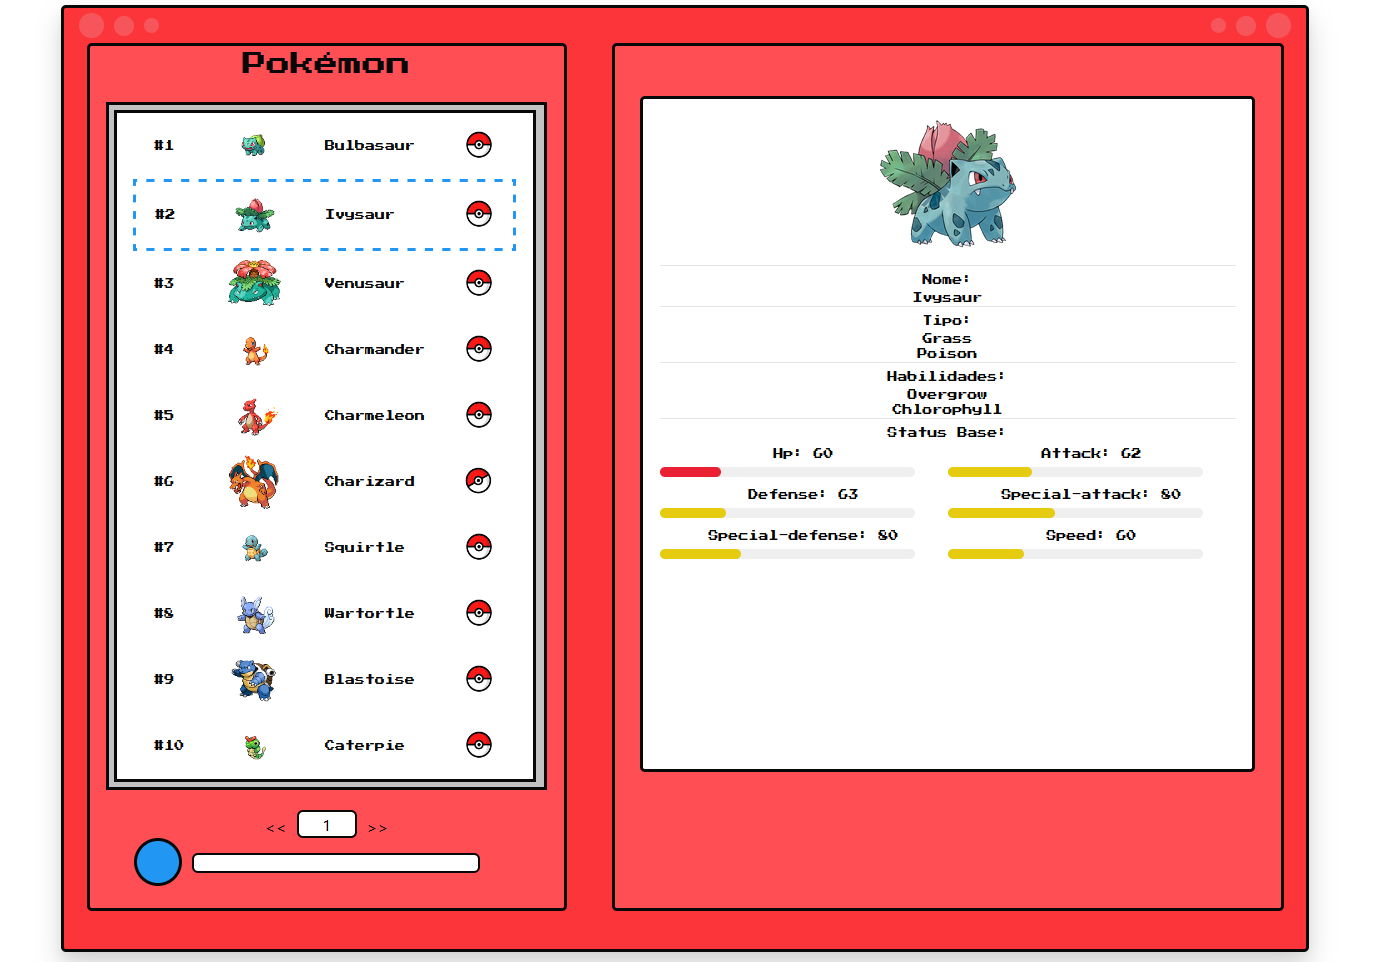
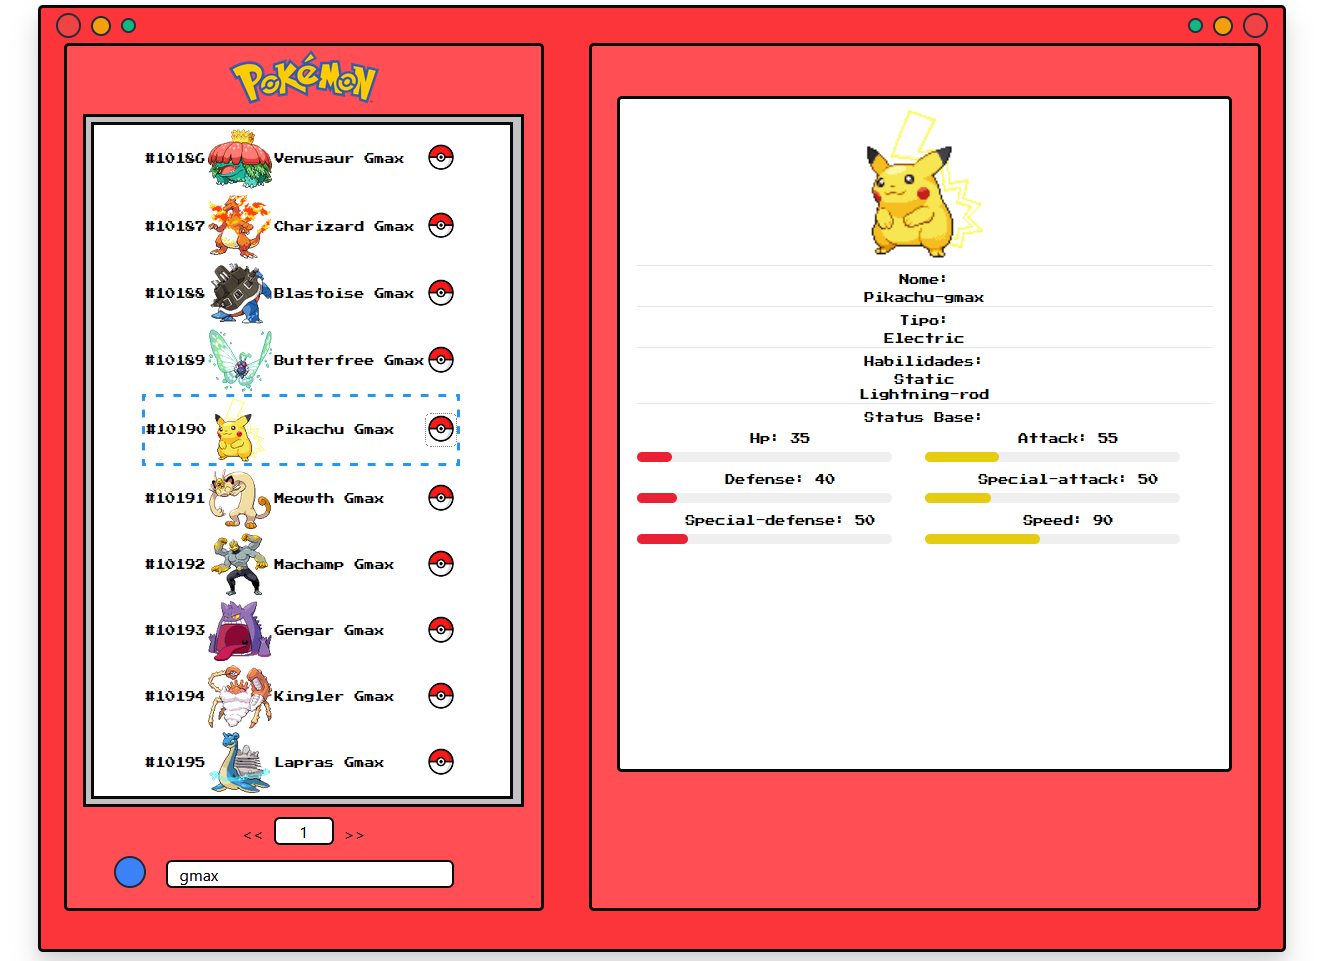
busca funcionando :,)

Changed region(s): [[0.0311, 0.0, 0.8697, 0.999], [0.8697, 0.0, 0.9939, 1.0]]

diff --git a/src/pokemon/List.js b/src/pokemon/List.js
@@ -6,67 +6,38 @@ import '../index.css';
 import PokeSerch from './PokeSearch';
 import DecorativeHeader from "./DecorativeHeader";
 import PokeTable from "./PokeTable";
-import SmoothRectangle from "./SmoothRectangle";
-
+import SmoothRectangle from "./SmoothRectangle"
+import useList from "../hooks/useList";
 
 function List() {
-  const [pokemons, setPokemons] = useState([]);
-  const [imagePokemons, setImagePokemons] = useState([]);
+  const [page, setPage] = useState(1);
   const [detalhes, setDetalhes] = React.useState('');
-  const [detalhesUrl, setDetalhesUrl] = React.useState('');
-  const [total, setTotal] = useState(0);
+  var { pokemons, total, fetchFiltered } = useList();
 
-  const fetchPokemons = async (offset = 1, limit = 10) => {
-    var url = '';
-    url = `https://pokeapi.co/api/v2/pokemon?offset=${(offset - 1) * limit
-      }&limit=${limit}`;
-    const response = await fetch(url);
-    const { results, count } = await response.json();
-    setPokemons(results);
-    setTotal(count);
+
+  const handleChangePagination = (page) => {
+    console.log(`pagina muda`, page);
+    setPage(page)
   };
-
-  const fetchImagePokemons = async (pokemons) => {
-    var promisses = pokemons.map(async element => {
-      var url = element.url.toString();
-      var response = await fetch(url);
-      var { sprites } = await response.json();
-      return sprites.front_default;
-    });
-    var imagens = await Promise.all(promisses);
-    setImagePokemons(imagens);
-  };
-
-  const fetchDetalhes = async (detalhesUrl) => {
-    const response = await fetch(detalhesUrl);
-    const result = await response.json();
-    setDetalhes(result);
-  }
-
-  useEffect(() => {
-    fetchImagePokemons(pokemons);
-  }, [pokemons]);
-
-  const handlePaginationChange = (page) => {
-    fetchPokemons(page);
-  };
-
+  
   const handleSearchChange = (nameSearch) => {
     const name = nameSearch.replace(' ', '-');
     const url = `https://pokeapi.co/api/v2/pokemon/${name}`
     fetchDetalhes(url);
   };
-
+  
   const HandleDetalhesChange = (detalhes) => {
     fetchDetalhes(detalhes);
   };
-
-  function handleDetalhesClick(url) {
-    setDetalhesUrl(url);
-    fetchDetalhes(url);
-  };
-
   
+  function handleDetalhesClick(pokemon) {
+    fetchDetalhes(pokemon);
+  };
+  
+  const fetchDetalhes = (pokemon) => {
+    setDetalhes(pokemon);
+  }
+      
   return (
     <div className='hold-base-container p-2'>
       <div className='base-pokedex thin-black-round'>
@@ -76,15 +47,14 @@ function List() {
             <img src={PokeLogo} className='inline mt-1' style={{width: '150px', justifyContent: 'center'}}/>
             <div className='frame'>
               <div className='glass-display'>
-                <PokeTable pokemons={pokemons}
-                           imagePokemons={imagePokemons}
+                <PokeTable pokemon={pokemons}
                            handleDetalhesClick={handleDetalhesClick}
-                           detalhesUrl={detalhesUrl}
+                           detalhes={detalhes}
                 />
               </div>
             </div>
-            <Paginacao onChange={handlePaginationChange} total={total} />
-            <PokeSerch onChange={handleSearchChange} />
+            <Paginacao onChange={handleChangePagination} total={total}/>
+            <PokeSerch onChange={handleSearchChange} onFilter={fetchFiltered} page={page}/>
           </div>
           <SmoothRectangle className='rectangle'
                           border='thin-black-round' 

diff --git a/src/pokemon/PokeTable.js b/src/pokemon/PokeTable.js
@@ -1,19 +1,25 @@
 import PokeBola from '../images/pokeballSimple.png';
+import React, { useEffect, useState } from "react";
 
-const PokeTable = ({ pokemons, imagePokemons, handleDetalhesClick, detalhesUrl }) => {
+const PokeTable = ({ pokemon, handleDetalhesClick, detalhes }) => {
+
+    const getImage = (pokemon) => {
+        return pokemon.sprites.front_default;
+    };
+
+
     return (
         <div>
             <table>
                 <tbody>
-                    {pokemons.map((pokemon, index) => {
-                        const src = imagePokemons[index];
+                    {pokemon.map((pokemon) => {
                         return (
-                            <tr key={pokemon.name} className={detalhesUrl === pokemon.url ? 'table-itens' : ''}>
+                            <tr key={pokemon.name} className={detalhes.id === pokemon.id ? 'table-itens' : ''}>
                                 <td>
-                                    #{pokemon.url.split('/')[6]}
+                                    #{pokemon.id}
                                 </td>
                                 <td className='text'>
-                                    <img src={src} className='w-16' />
+                                    <img src={getImage(pokemon)} className='w-16' />
                                 </td>
                                 <td>
                                     {pokemon.name.replace('-', ' ')}
@@ -21,7 +27,7 @@ const PokeTable = ({ pokemons, imagePokemons, handleDetalhesClick, detalhesUrl }
                                 <td>
                                     <button style={{ backgroundColor: 'transparent' }}
                                         type="button"
-                                        onClick={() => handleDetalhesClick(pokemon.url)}>
+                                        onClick={() => handleDetalhesClick(pokemon)}>
                                         <img className='pokeball-details-button w-18' src={PokeBola} />
                                     </button>
                                 </td>

diff --git a/src/pokemon/PokeSearch.js b/src/pokemon/PokeSearch.js
@@ -1,19 +1,19 @@
 import React, { useEffect, useState } from "react";
-import DecorativeBall from './DecorativeBall';
+import usePokemonSearch from "../hooks/usePokemonSearch";
 
-const PokeSerch = ({ onChange }) => {
-    const [nameSearch, setNameSearch] = React.useState('');
+const PokeSerch = ({ onFilter, page }) => {
+    const [nameSearch, setNameSearch] = useState('');
+    const onSearch = usePokemonSearch();
+    
+    const handleInputChange = (e) => {
+        setNameSearch(e.target.value);
+    };
 
     useEffect(() => {
-        if (nameSearch === '') return;
-        onChange(nameSearch);
-    }, [nameSearch]);
-
-    const handleInputChange = (e) => {
-        const value = e.target.value;
-        if(value !== null) return setNameSearch(value);
-        return setNameSearch('');
-    }
+        console.log(page);
+        const pokemonsFiltered = onSearch(nameSearch);
+        onFilter(pokemonsFiltered, page, 10);
+    }, [onSearch, nameSearch, page]);
 
     return(
         <div className='inline-flex items-bottom'>
@@ -21,8 +21,6 @@ const PokeSerch = ({ onChange }) => {
                 <span class="self-end animate-ping h-8 w-8 absolute inline-flex rounded-full bg-blue-400 opacity-75 "></span>
                 <span class="self-end relative inline-flex rounded-full h-8 w-8 bg-blue-500 border-2 border-gray-800"></span>
             </div>
-            {/* <button className='border-2 border-gray-700 round-button animate-ping ' >
-            </button> */}
             <input className='input-search p-3' onChange={handleInputChange}/>
         </div>
     );

diff --git a/src/hooks/useList.js b/src/hooks/useList.js
@@ -1,0 +1,37 @@
+import { useCallback, useMemo, useState } from "react";
+
+const getData = async (url) => {
+  const response = await fetch(url);
+  return await response.json();
+};
+
+const useList = () => {
+  const [pokemons, setPokemons] = useState([]);
+  const [total, setTotal] = useState(0);
+
+  const fetchFiltered =  useCallback(
+    async (pokemonsFiltered, page = 1, limit = 10) => {
+      const pokemonsPaginated = pokemonsFiltered.slice((page - 1) * limit, page * limit)
+
+      const promises = pokemonsPaginated.map(
+        async (pokemon) => await getData(pokemon.url)
+      );
+      const result = await Promise.all(promises);
+
+      setPokemons(result);
+      setTotal(pokemonsFiltered.length);
+    },
+    [setPokemons, setTotal]
+  );
+
+  return useMemo(
+    () => ({
+      pokemons,
+      total,
+      fetchFiltered
+    }),
+    [pokemons, total, fetchFiltered]
+  );
+};
+
+export default useList;

diff --git a/src/hooks/usePokemon.js b/src/hooks/usePokemon.js
@@ -1,0 +1,32 @@
+import { useCallback, useMemo, useState } from "react";
+
+const getData = async (url) => {
+  const response = await fetch(url);
+  return await response.json();
+};
+
+const usePokemon = () => {
+  const [pokemonSearch, setPokemonSearch] = useState([]);
+
+  const fetchPokemonSearch = useCallback(
+    async (nameSearch) => {
+      const url = `https://pokeapi.co/api/v2/pokemon/?offset=0&limit=1118`;
+
+      const results = await getData(url);
+      results.results.map(async (pokemon) => {
+          if (pokemon.name.includes(nameSearch)) {
+            console.log(pokemon.name)
+          }
+      });
+      setPokemonSearch(results);
+    },
+    [setPokemonSearch]
+  );
+
+  return useMemo(
+    () => ({ pokemonSearch, fetchPokemonSearch }),
+    [pokemonSearch, fetchPokemonSearch]
+  );
+};
+
+export default usePokemon;

diff --git a/src/hooks/useFetchPokemons.js b/src/hooks/useFetchPokemons.js
@@ -1,0 +1,29 @@
+import { useCallback, useEffect, useMemo, useState } from "react";
+
+const getData = async (url) => {
+  const response = await fetch(url);
+  return await response.json();
+};
+
+const useFetchPokemons = () => {
+  const [pokemons, setPokemons] = useState([]);
+
+  const fetchAll = useCallback(async () => {
+    const url = `https://pokeapi.co/api/v2/pokemon?offset=0&limit=1118`;
+    const { results } = await getData(url);
+    setPokemons(results);
+  }, [setPokemons]);
+
+  useEffect(() => {
+    fetchAll();
+  }, [fetchAll]);
+
+  return useMemo(
+    () => ({
+      pokemons,
+    }),
+    [pokemons]
+  );
+};
+
+export default useFetchPokemons;

diff --git a/src/hooks/usePokemonSearch.js b/src/hooks/usePokemonSearch.js
@@ -1,0 +1,12 @@
+import { useCallback, useEffect, useMemo, useState } from "react";
+import useFetchPokemons from "./useFetchPokemons";
+
+const usePokemonSearch = () => {
+    const { pokemons } = useFetchPokemons();
+
+    return useCallback((search) => {
+        return pokemons.filter(pokemon => pokemon.name.replace("-", " ").includes(search.toLowerCase().replace(/ +/, " ").trim()))
+    }, [pokemons])
+};
+
+export default usePokemonSearch;
